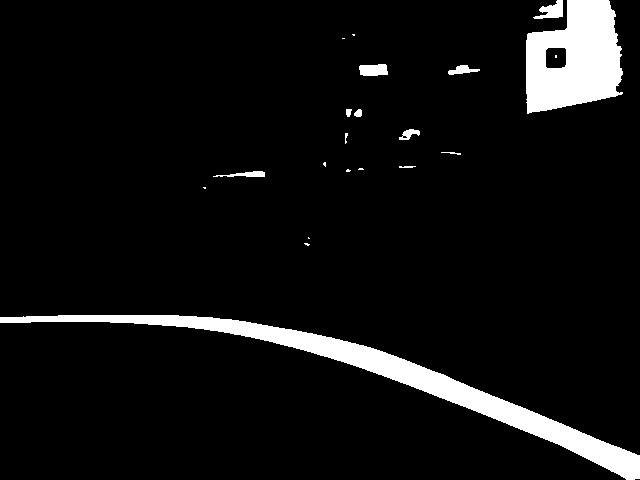
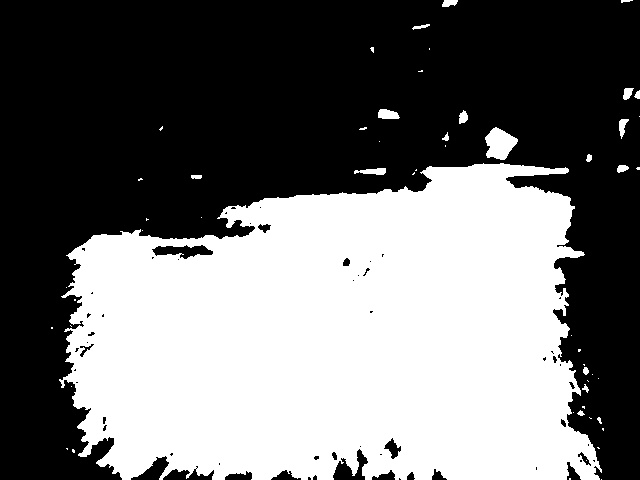
슬라이딩 윈도우 수정 전 중간저장

diff --git a/slidingWindow/steering_controller.py b/slidingWindow/steering_controller.py
@@ -2,38 +2,52 @@ import numpy as np
 
 class SteeringController:
     def __init__(self):
-        # 이미지 관련 (픽셀 단위)
-        self.image_center = 160          # 워핑된 이미지의 중앙점 (320/2)
-        self.lane_width_pixels = 320     # 워핑된 이미지에서의 차선 간 픽셀 거리
+        # 이미지 관련
+        self.image_center = 160
+        self.lane_width_pixels = 320
         
-        # 실제 물리적 거리 (cm 단위)
-        self.lane_width_cm = 22          # 실제 차선 간 거리
-        self.camera_forward_distance = 30 # 차량 중심부터 카메라 인식 지점까지 거리
-        
-        # 픽셀당 실제 거리 비율 계산 (cm/pixel)
-        self.cm_per_pixel = self.lane_width_cm / self.lane_width_pixels
+        # 실제 물리적 거리
+        self.lane_width_cm = 22
+        self.camera_forward_distance = 30
         
         # 조향 제어 관련
-        self.error_scaling_factor = 3.6  # 기하학적 계산 결과를 미세 조정
+        self.cm_per_pixel = self.lane_width_cm / self.lane_width_pixels
+        self.error_scaling_factor = 2.7 # 기하학적 계산 결과를 미세 조정
         self.last_steering_angle = 0
 
     def calculate_steering_angle(self, left_fit, right_fit):
+        """
+        차선 피팅 값을 기반으로 조향각 계산
+        """
         try:
-            y_eval = int(240 * 0.6)
+            # 10단계 y_eval 포인트 생성
+            y_evals = [int(240 * (i/10)) for i in range(1, 11)]  # 0.1부터 1.0까지
+            centers = []
             
-            if left_fit is not None and right_fit is not None:
-                left_x = left_fit[0] * y_eval**2 + left_fit[1] * y_eval + left_fit[2]
-                right_x = right_fit[0] * y_eval**2 + right_fit[1] * y_eval + right_fit[2]
-                center_x = (left_x + right_x) / 2
-            elif right_fit is not None:
-                right_x = right_fit[0] * y_eval**2 + right_fit[1] * y_eval + right_fit[2]
-                center_x = right_x - self.lane_width_pixels/2
-            elif left_fit is not None:
-                left_x = left_fit[0] * y_eval**2 + left_fit[1] * y_eval + left_fit[2]
-                center_x = left_x + self.lane_width_pixels/2
-            else:
-                return self.last_steering_angle
-                
+            # 각 y_eval 지점에서 중심점 계산
+            for y_eval in y_evals:
+                if left_fit is not None and right_fit is not None:
+                    left_x = left_fit[0] * y_eval**2 + left_fit[1] * y_eval + left_fit[2]
+                    right_x = right_fit[0] * y_eval**2 + right_fit[1] * y_eval + right_fit[2]
+                    centers.append((left_x + right_x) / 2)
+                    
+                elif left_fit is not None:
+                    left_x = left_fit[0] * y_eval**2 + left_fit[1] * y_eval + left_fit[2]
+                    centers.append(left_x + self.lane_width_pixels/2)
+                    
+                elif right_fit is not None:
+                    right_x = right_fit[0] * y_eval**2 + right_fit[1] * y_eval + right_fit[2]
+                    centers.append(right_x - self.lane_width_pixels/2)
+                else:
+                    return self.last_steering_angle
+            
+            # 가중치 적용 (먼 지점에 더 큰 가중치)
+            weights = np.linspace(0.5, 2, 10)  # 0.5부터 1.5까지 10개의 가중치
+            weighted_centers = np.multiply(centers, weights)
+            
+            # 가중 평균 중심점 계산
+            center_x = np.average(weighted_centers)
+            
             # 픽셀 단위 오차
             error_pixels = center_x - self.image_center
             
@@ -46,8 +60,8 @@ class SteeringController:
             # error_scaling_factor를 적용하여 조향각 미세 조정
             steering_angle = base_angle * self.error_scaling_factor
             
-            # 조향각 제한
-            max_angle = 60
+            # 최대 조향각 제한
+            max_angle = 65
             steering_angle = np.clip(steering_angle, -max_angle, max_angle)
             
             # 급격한 조향 변화 방지
@@ -80,7 +94,7 @@ class SteeringController:
                        (0, 0, 255), 2)
         
         # 조향각 텍스트 표시
-        cv2.putText(image, f"Steering: {steering_angle:.1f}deg", (10, 30), 
-                   cv2.FONT_HERSHEY_SIMPLEX, 1, (255, 255, 255), 2)
+        cv2.putText(image, f"Steering: {steering_angle:.1f}deg", (10, 70), 
+                   cv2.FONT_HERSHEY_SIMPLEX, 1, (255, 0, 255), 2)
         
-        return image 
+        return image

diff --git a/slidingWindow/sliding_window.py b/slidingWindow/sliding_window.py
@@ -33,12 +33,12 @@ class SlidingWindow:
         warp_image_width = HALF_WIDTH
         warp_image_height = HALF_HEIGHT
 
-        warp_x_margin = 240
+        warp_x_margin = 200
         warp_y_margin = 3
 
-        src_pts1 = (240 - warp_x_margin, HALF_HEIGHT + 20)
+        src_pts1 = (240 - warp_x_margin, HALF_HEIGHT + 60)
         src_pts2 = (0, IMAGE_HEIGHT - 20)
-        src_pts3 = (400 + warp_x_margin, HALF_HEIGHT + 20)
+        src_pts3 = (400 + warp_x_margin, HALF_HEIGHT + 60)
         src_pts4 = (IMAGE_WIDTH, IMAGE_HEIGHT - 20)
 
         dist_pts1 = (0, 0)

diff --git a/slidingWindow/main.py b/slidingWindow/main.py
@@ -71,7 +71,7 @@ def handle_frame(data):
         steering_angle = steering_controller.calculate_steering_angle(left_fit, right_fit)
         steering_visualization = steering_controller.visualize_steering(steering_visualization, steering_angle)
 
-        socketio.emit('data', {'angle': -steering_angle, 'speed': 0.3})
+        socketio.emit('data', {'angle': -steering_angle, 'speed': 0.4})
         
         # 좌우 차선 위치 계산
         if capture_frame % 10 == 0:
